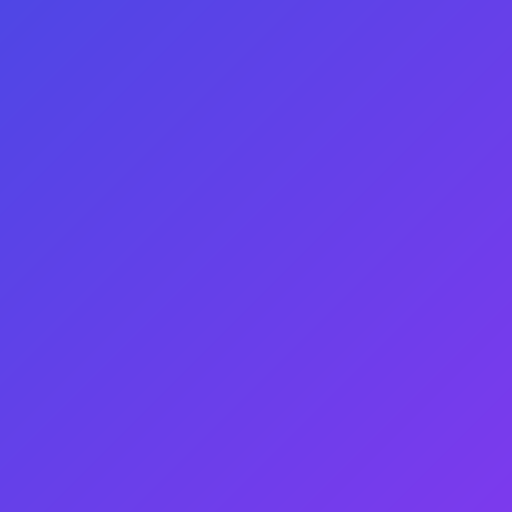
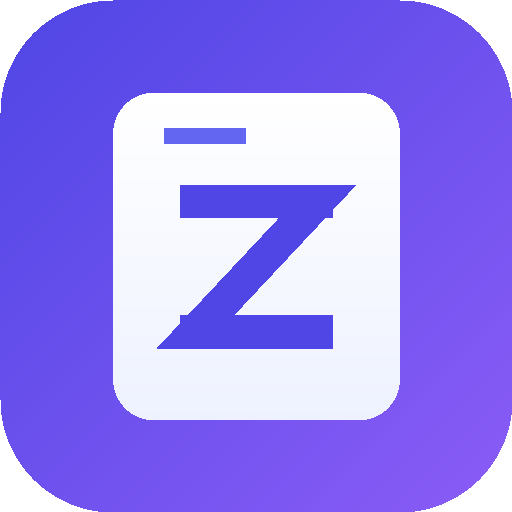
Add files via upload

diff --git a/index.html b/index.html
@@ -10,8 +10,12 @@
     <meta name="mobile-web-app-capable" content="yes">
     <meta name="theme-color" content="#0f172a">
     <link rel="manifest" href="manifest.json">
+    <link rel="icon" type="image/png" sizes="192x192" href="icon-192.png">
     <link rel="icon" type="image/svg+xml" href="icon.svg">
     <link rel="apple-touch-icon" href="icon-192.png">
+    <link rel="apple-touch-icon" sizes="180x180" href="icon-192.png">
+    <link rel="apple-touch-icon" sizes="192x192" href="icon-192.png">
+    <link rel="apple-touch-icon" sizes="512x512" href="icon-512.png">
     <title>Zakerly | تطبيق المذاكرة الذكي</title>
     <link
         href="https://fonts.googleapis.com/css2?family=Alexandria:wght@400;600;700;800&family=Plus+Jakarta+Sans:wght@500;600;700;800&family=Cairo:wght@400;600;700;800&display=swap"
@@ -7004,9 +7008,9 @@
                 if (studyArea) studyArea.scrollTop = 0;
             }
 
-            // 1. فحص الطوارئ لأي كارت صعب حان موعده
+            // 1. فحص الطوارئ والجدولة لأي كارت حان موعده
             const now = Date.now();
-            const urgentCard = cards.find(c => c.isHard && c.nextReview <= now);
+            const urgentCard = cards.find(c => (c.isHard || c.plan || c.isScheduled) && c.nextReview <= now && !c.done);
 
             if (urgentCard) {
                 currentCard = urgentCard;
@@ -9301,13 +9305,31 @@
 
         function triggerUrgentAlert(card) {
             playAlarmSound();
-            document.getElementById('notif-text').innerText = `${t('notifBody')} "${card.front}"`;
-            document.getElementById('mobile-notif').classList.add('show');
+            const notifText = document.getElementById('notif-text');
+            if (notifText) notifText.innerText = `${t('notifBody')} "${card.front}"`;
+            const mobNotif = document.getElementById('mobile-notif');
+            if (mobNotif) mobNotif.classList.add('show');
 
-            if ("Notification" in window && Notification.permission === "granted") {
-                new Notification(t('notifTitle'), {
-                    body: `${t('notifBody')} ${card.front}`
-                });
+            const title = t('notifTitle') || '⏰ حان وقت مراجعة كارت!';
+            const body = `${t('notifBody') || 'حان موعد مراجعة:'} ${card.front}`;
+
+            if ('serviceWorker' in navigator && navigator.serviceWorker.controller) {
+                navigator.serviceWorker.ready.then(reg => {
+                    reg.showNotification(title, {
+                        body: body,
+                        icon: './icon-192.png',
+                        badge: './icon-192.png',
+                        vibrate: [200, 100, 200],
+                        data: { cardId: card.id }
+                    });
+                }).catch(() => {});
+            } else if ("Notification" in window && Notification.permission === "granted") {
+                try {
+                    new Notification(title, {
+                        body: body,
+                        icon: './icon-192.png'
+                    });
+                } catch (e) { }
             }
         }
 
@@ -9667,6 +9689,9 @@
             };
             card.nextReview = r.first;
             card.done = false;
+            if ('Notification' in window && Notification.permission === 'default') {
+                try { Notification.requestPermission(); } catch (e) { }
+            }
             closeScheduleModal();
             saveCards();
             if (document.getElementById('manage-modal')?.classList.contains('active')) renderManageList();
@@ -10124,12 +10149,14 @@
         }
 
         setInterval(() => {
-            const cardEl = document.getElementById('flashcard');
-            if (cardEl && cardEl.classList.contains('flipped')) return;
-            const hasUrgent = cards.some(c => c.isHard && c.nextReview <= Date.now());
+            const now = Date.now();
+            const hasUrgent = cards.some(c => (c.isHard || c.plan || c.isScheduled) && c.nextReview <= now && !c.done);
             const currentDueLen = (navLevel === 'study') ? getDueCards().length : -1;
             if (hasUrgent || (navLevel === 'study' && currentDueLen !== lastDueCount)) {
-                updateUI();
+                const cardEl = document.getElementById('flashcard');
+                if (!cardEl || !cardEl.classList.contains('flipped') || hasUrgent) {
+                    updateUI();
+                }
             }
         }, 1000);
 
@@ -11894,7 +11921,12 @@
             </div>
             <!-- زر الإملاء الصوتي العائم -->
             <div class="ls-dictation-wrap">
-                <button class="ls-mic-lang-btn" id="ls-mic-lang" onclick="lsToggleDictLang(event)" title="${T('
+                <button class="ls-mic-lang-btn" id="ls-mic-lang" onclick="lsToggleDictLang(event)" title="${T('تغيير لغة المايك', 'Change voice language')}">${dictLang.startsWith('ar') ? 'AR' : 'EN'}</button>
+                <button class="ls-mic-btn" id="ls-mic-btn" onclick="lsToggleDictation()" title="${T('بدء/إيقاف الإملاء الصوتي', 'Toggle Voice Dictation')}">${ICONS.mic}</button>
+            </div>
+        `;
+        (document.querySelector('.mobile-frame') || document.body).appendChild(ov);
+        ed = $('ls-ed'); ed.innerHTML = cur.html || '<p><br></p>'; $('ls-title').value = cur.title || '';
         try { document.execCommand('defaultParagraphSeparator', false, 'p'); document.execCommand('styleWithCSS', false, true) } catch (e) { }
         try { lsSyncCardHighlights(); } catch (e) { }
         ov.addEventListener('click', () => { if (typeof lsCloseMoreMenu === 'function') lsCloseMoreMenu(); });
